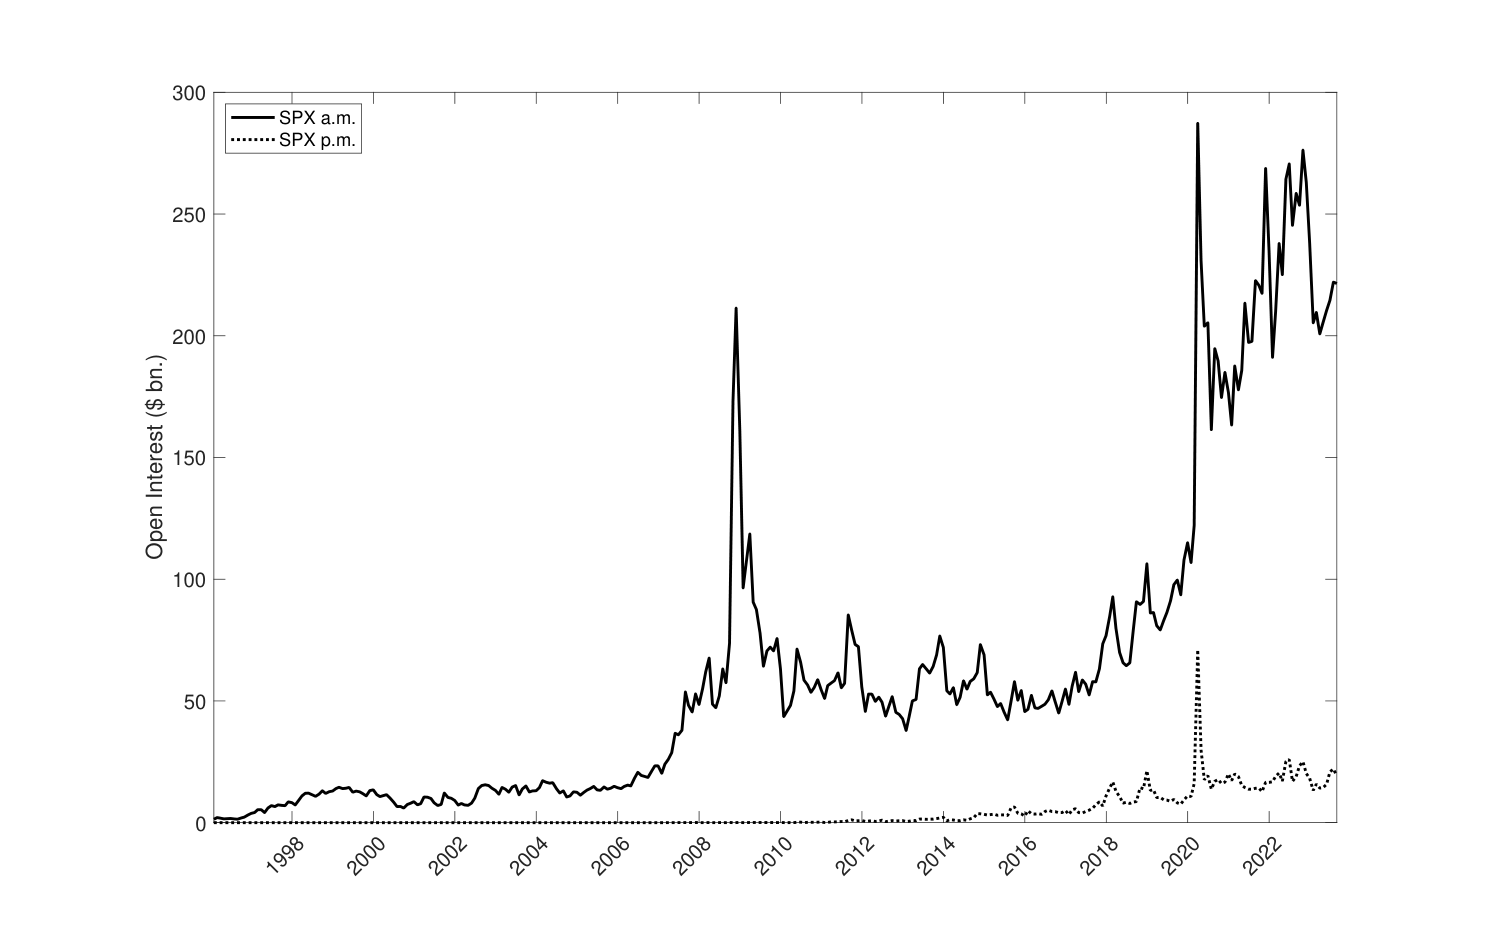
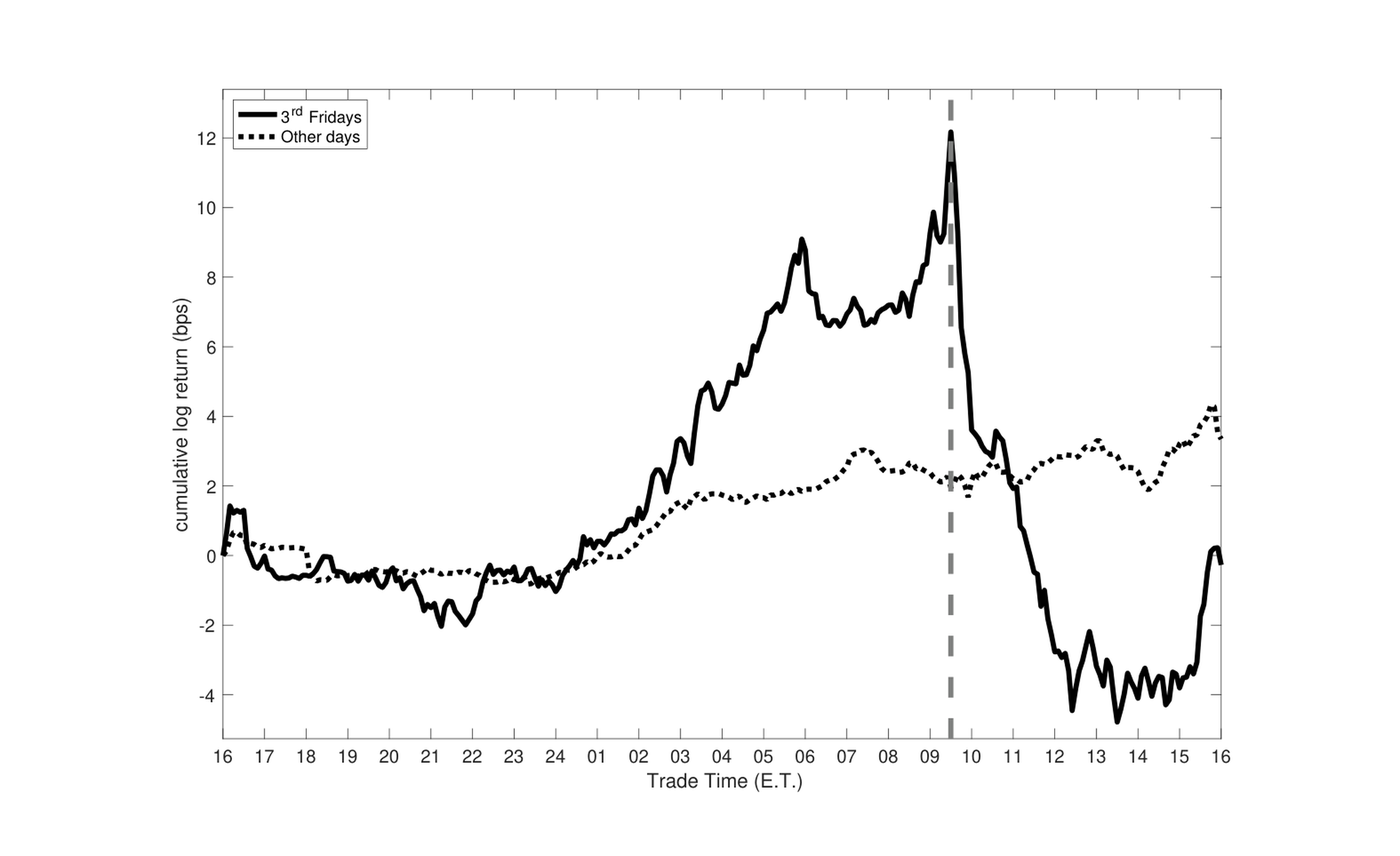
Home: reorder paper links (Paper, Abstract, Figure 1, SSRN, ...), figure headlines, payoff-bias figure now 3rd-Friday spike, bio rewrite

diff --git a/index.html b/index.html
@@ -49,15 +49,18 @@
         <p class="subtitle">Assistant Professor of Finance</p>
         <p class="affil">Stephen M. Ross School of Business, University of Michigan</p>
         <div class="bio">
-          <p>I work on</p>
+          <p>My research areas are</p>
           <ul class="research-areas">
             <li>asset pricing</li>
             <li>financial intermediation</li>
-            <li>emission trading systems</li>
           </ul>
-          <p>My work often uses derivatives markets to measure economic quantities, such as
-          <a href="#abs-intermediary" class="reveal-abstract" data-target="abs-intermediary">Intermediary Inventory Risk</a>,
-          and <a href="#abs-carbonvix" class="reveal-abstract" data-target="abs-carbonvix">Carbon Price Uncertainty</a>. I received my PhD from Copenhagen Business School in 2025.</p>
+          <p>Specifically, I have worked on</p>
+          <ul class="research-areas">
+            <li><a href="#abs-carbonvix" class="reveal-abstract" data-target="abs-carbonvix">emission trading systems</a></li>
+            <li><a href="#abs-payoff" class="reveal-abstract" data-target="abs-payoff">derivatives market structure</a></li>
+            <li><a href="#abs-intermediary" class="reveal-abstract" data-target="abs-intermediary">the option risk premium</a></li>
+          </ul>
+          <p>I received my PhD from Copenhagen Business School in 2025.</p>
         </div>
         <p class="quicklinks">
           <a href="https://papers.ssrn.com/sol3/cf_dev/AbsByAuth.cfm?per_id=6129630" target="_blank" rel="noopener noreferrer">SSRN</a><span class="sep">·</span>
@@ -78,10 +81,10 @@
           <em>Journal of Financial Economics</em>, 2026, 183, 104328</span>
           <div class="pub-links">
             <a href="assets/papers/carbon_vix.pdf" target="_blank" rel="noopener noreferrer">Paper</a><span class="sep">·</span>
-            <a href="https://doi.org/10.1016/j.jfineco.2026.104328" target="_blank" rel="noopener noreferrer">Published Version</a><span class="sep">·</span>
-            <a href="https://papers.ssrn.com/sol3/papers.cfm?abstract_id=4913715" target="_blank" rel="noopener noreferrer">SSRN</a><span class="sep">·</span>
             <button type="button" class="abstract-toggle" aria-expanded="false" aria-controls="abs-carbonvix">Abstract</button><span class="sep">·</span>
             <button type="button" class="figure-toggle" aria-expanded="false" aria-controls="fig-carbonvix">Figure 1</button><span class="sep">·</span>
+            <a href="https://papers.ssrn.com/sol3/papers.cfm?abstract_id=4913715" target="_blank" rel="noopener noreferrer">SSRN</a><span class="sep">·</span>
+            <a href="https://doi.org/10.1016/j.jfineco.2026.104328" target="_blank" rel="noopener noreferrer">Published Version</a><span class="sep">·</span>
             <a href="https://carbonvix.org" target="_blank" rel="noopener noreferrer">carbonvix.org</a><span class="sep">·</span>
             <a href="https://cepr.org/voxeu/columns/carbon-price-uncertainty" target="_blank" rel="noopener noreferrer">VoxEU</a>
           </div>
@@ -89,6 +92,7 @@
             <p>We study the effects of carbon price uncertainty on firms' decisions to decarbonize their operations. We first use information on the pricing of options on emission allowances in the European Emissions Trading System to create the Carbon VIX, a market-based high-frequency measure of carbon price uncertainty. Carbon price uncertainty is high, varies substantially over time, and experiences persistent shocks around major climate policy events. To explore the effects of carbon price uncertainty on expected aggregate decarbonization investments, we analyze its effect on the stock returns of firms that help other businesses decarbonize. To identify these "carbon solution providers," we extract common types of decarbonization investments from a large survey of firms, and then identify companies that offer the associated goods and services. We find that the stock returns of these carbon solution providers vary positively with carbon prices, but negatively with carbon price uncertainty. The effect of increases in carbon price uncertainty on our proxy for expected decarbonization investments is economically large and of similar magnitude as the effect of declines in carbon prices. These findings support predictions from real options theory that firms may delay investments in decarbonization when faced with uncertainty about the future costs of emissions.</p>
           </div>
           <div class="figure-panel" id="fig-carbonvix">
+            <p class="figure-headline">The Carbon VIX measures carbon price uncertainty and spikes around major events.</p>
             <img src="assets/figures/fig_carbon_vix.png" alt="Figure 1 of the paper: the Carbon VIX from 2013 to 2023, annotated with major market events.">
           </div>
         </li>
@@ -104,9 +108,9 @@
           Revise &amp; Resubmit, <em>Review of Financial Studies</em></span>
           <div class="pub-links">
             <a href="assets/papers/derivative_payoff_bias.pdf" target="_blank" rel="noopener noreferrer">Paper</a><span class="sep">·</span>
-            <a href="https://papers.ssrn.com/sol3/papers.cfm?abstract_id=4562800" target="_blank" rel="noopener noreferrer">SSRN</a><span class="sep">·</span>
             <button type="button" class="abstract-toggle" aria-expanded="false" aria-controls="abs-payoff">Abstract</button><span class="sep">·</span>
             <button type="button" class="figure-toggle" aria-expanded="false" aria-controls="fig-payoff">Figure 1</button><span class="sep">·</span>
+            <a href="https://papers.ssrn.com/sol3/papers.cfm?abstract_id=4562800" target="_blank" rel="noopener noreferrer">SSRN</a><span class="sep">·</span>
             <span class="press-label">Press:</span>
             <a href="https://www.bloomberg.com/news/articles/2023-09-27/s-p-500-options-quirk-mints-billions-stirring-manipulation-talk" target="_blank" rel="noopener noreferrer">Bloomberg</a>,
             <a href="https://www.barrons.com/articles/triple-witching-day-options-manipulated-dd8dd5ae" target="_blank" rel="noopener noreferrer">Barron’s</a>,
@@ -116,21 +120,23 @@
             <p>Most U.S. equity index derivatives expire at the market open on the 3rd Friday of each month. We show that equity prices at the open on 3rd Fridays are systematically biased upward and fully reverse by midday. Thus, call and futures payoffs are inflated while put payoffs are deflated, transferring approximately $2.5 billion annually. This bias stems from predictable changes in option dealers' inventory delta. The aggregate delta of dealers' option positions drifts down into 3rd Friday derivative expiry, generating an incentive to buy equities. Dealer delta drift predicts overnight equity returns into 3rd Friday expirations, and no other days.</p>
           </div>
           <div class="figure-panel" id="fig-payoff">
-            <img src="assets/figures/fig_derivative_payoff_bias.png" alt="Figure 1 of the paper: monthly open interest of S&amp;P 500 options with a.m. and p.m. settlement, 1996 to 2023.">
+            <p class="figure-headline">The S&amp;P 500 spikes exactly when derivative payoffs are calculated and fully reverts thereafter.</p>
+            <img src="assets/figures/fig_derivative_payoff_bias.png" alt="Cumulative intraday log returns of S&amp;P 500 E-mini futures around 3rd Friday market open versus all other days: a spike into the 9:30 a.m. open on 3rd Fridays that fully reverses by midday.">
           </div>
         </li>
         <li>
           <span class="pub-title">Intermediary Option Pricing</span>
           <div class="pub-links">
             <a href="assets/papers/intermediary_option_pricing.pdf" target="_blank" rel="noopener noreferrer">Paper</a><span class="sep">·</span>
-            <a href="https://papers.ssrn.com/sol3/papers.cfm?abstract_id=5877762" target="_blank" rel="noopener noreferrer">SSRN</a><span class="sep">·</span>
             <button type="button" class="abstract-toggle" aria-expanded="false" aria-controls="abs-intermediary">Abstract</button><span class="sep">·</span>
-            <button type="button" class="figure-toggle" aria-expanded="false" aria-controls="fig-intermediary">Figure 1</button>
+            <button type="button" class="figure-toggle" aria-expanded="false" aria-controls="fig-intermediary">Figure 1</button><span class="sep">·</span>
+            <a href="https://papers.ssrn.com/sol3/papers.cfm?abstract_id=5877762" target="_blank" rel="noopener noreferrer">SSRN</a>
           </div>
           <div class="abstract" id="abs-intermediary">
             <p>S&amp;P 500 options earn negative returns mainly overnight. I link this timing to dealer gap risk: inventory risk from large equity price moves when overnight equity illiquidity limits delta hedging. Using CBOE trade data, I estimate dealer inventories and introduce shadow gamma, the curvature of option payoffs after a crash, as a simple measure of gap risk exposure. Dealers are short this crash-state curvature, and options with greater shadow gamma earn more negative overnight returns, especially when dealer exposure is high. The rise of overnight equity trading around 2006 reduced within-week premia relative to weekends, consistent with a causal liquidity channel.</p>
           </div>
           <div class="figure-panel" id="fig-intermediary">
+            <p class="figure-headline">The emergence of overnight equity trading permanently changed the option risk premium.</p>
             <img src="assets/figures/fig_intermediary_option_pricing.png" alt="Figure 1 of the paper: cumulative returns of S&amp;P 500 put options, weeknights versus weekends, 1996 to 2023.">
           </div>
         </li>

diff --git a/css/style.css b/css/style.css
@@ -175,6 +175,13 @@ h2 {
 }
 .figure-panel.open { display: block; }
 .figure-panel img { display: block; width: 100%; height: auto; }
+.figure-headline {
+  margin: 0 0 .55rem;
+  font-size: .95rem;
+  font-weight: 600;
+  line-height: 1.45;
+  color: var(--ink);
+}
 
 /* Brief highlight when an abstract is revealed from an inline bio link */
 @keyframes abstract-flash {
